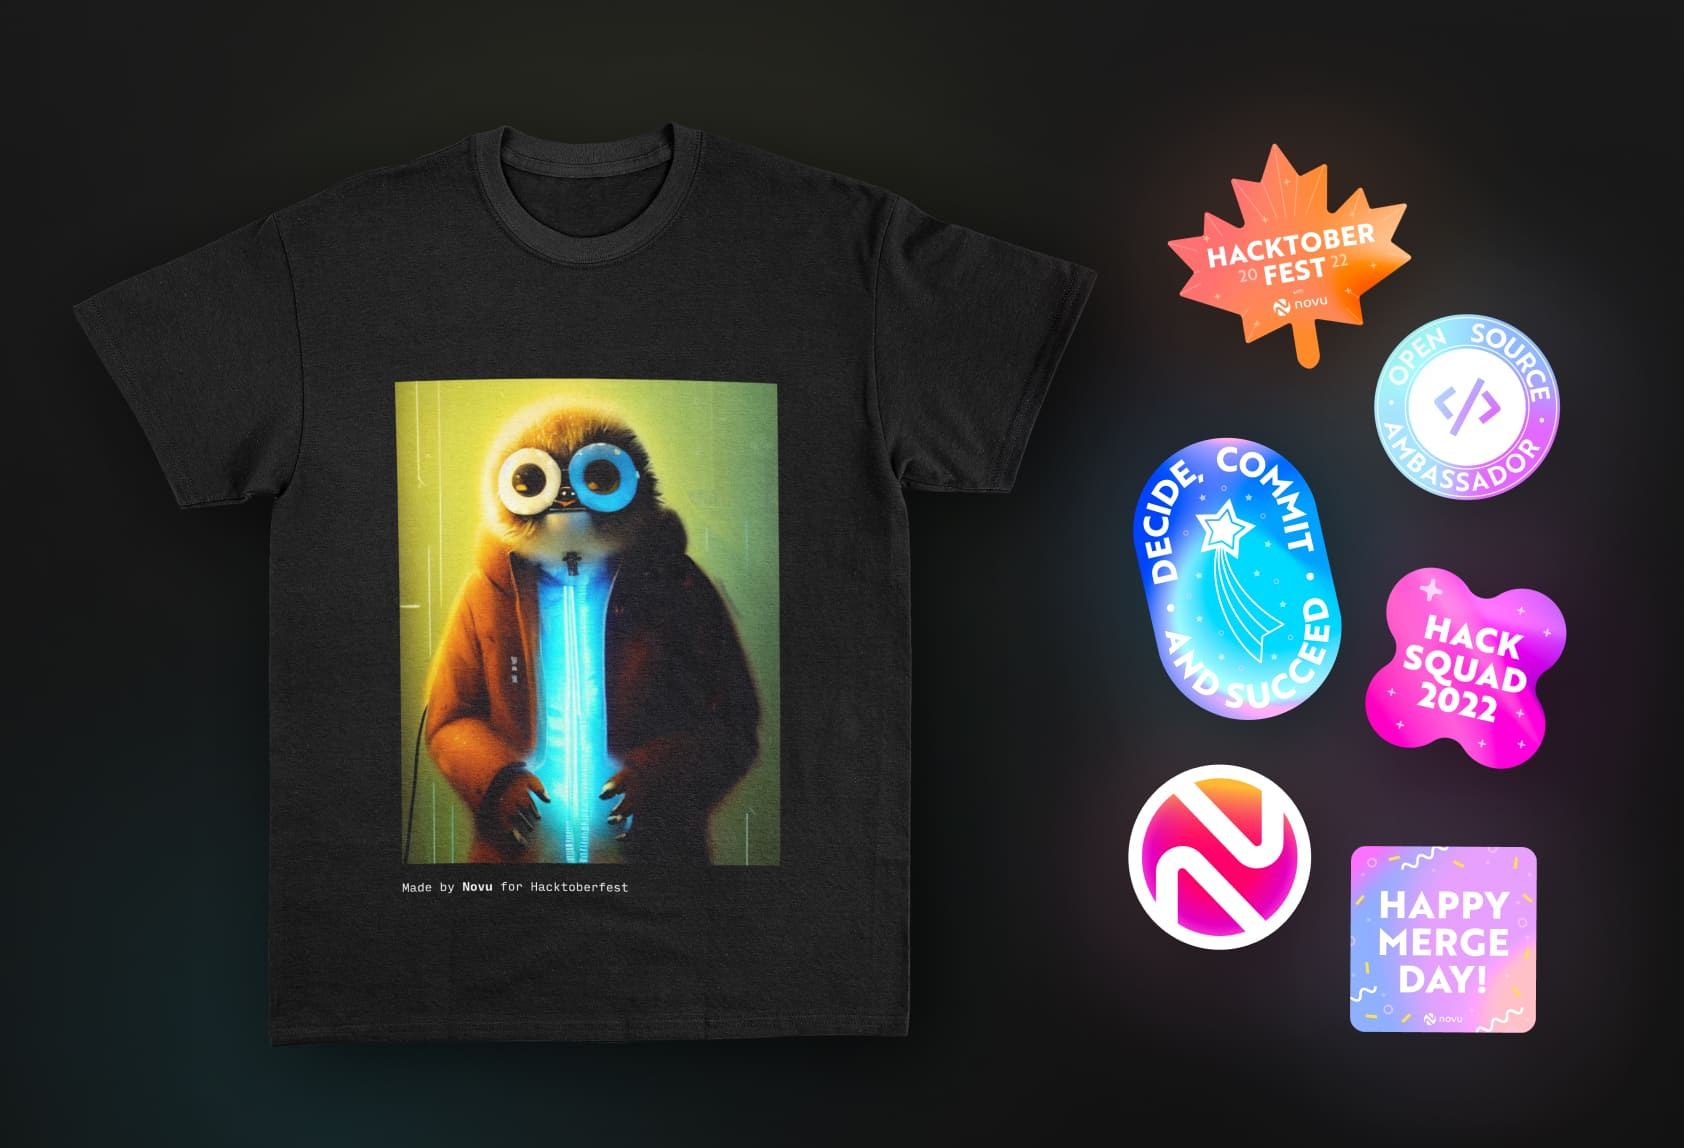
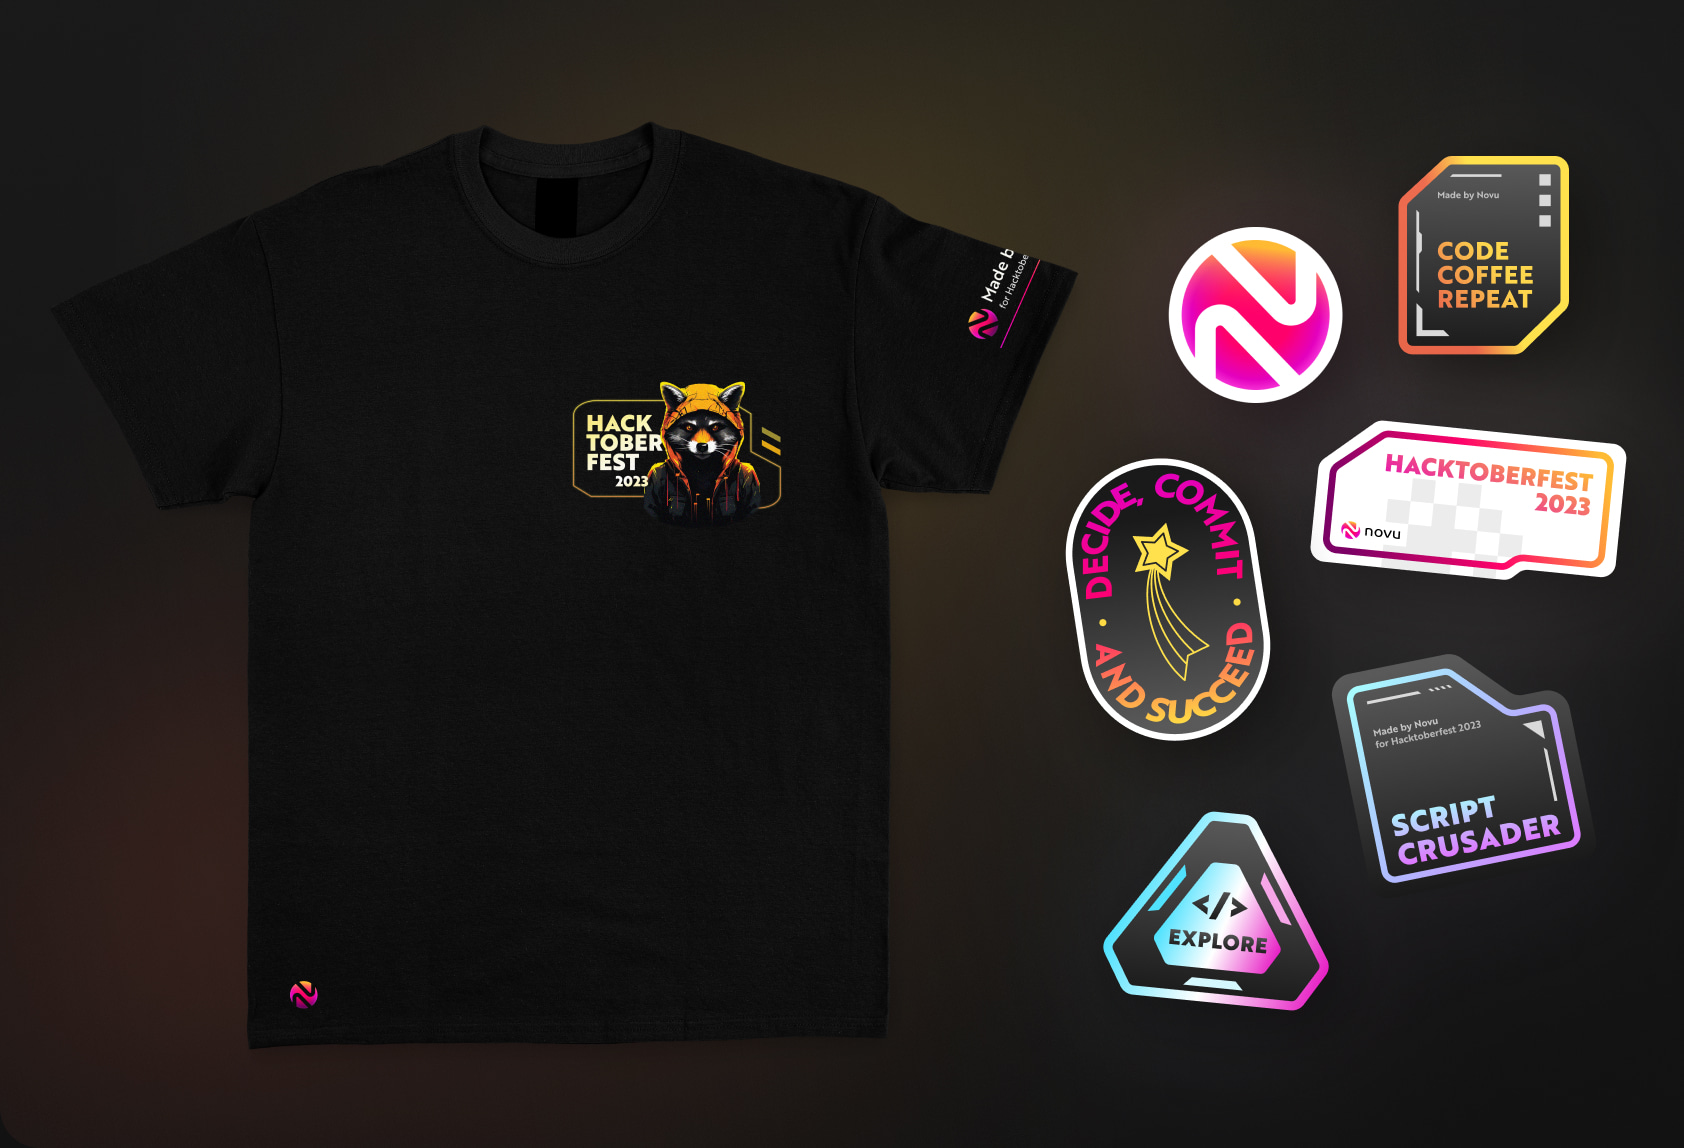
feat: update swag section styles

diff --git a/src/components/pages/hacktoberfest/swag/swag.jsx b/src/components/pages/hacktoberfest/swag/swag.jsx
@@ -4,13 +4,13 @@ import { graphql, useStaticQuery } from 'gatsby';
 import { GatsbyImage, getImage } from 'gatsby-plugin-image';
 import React, { useState } from 'react';
 
-import Button from 'components/shared/button';
+// import Button from 'components/shared/button';
 import Heading from 'components/shared/heading';
 
 const TITLE = 'Win a swag pack for just 3 merged PRs!';
 const SUBTITLE = 'Very special Novu T-shirts + Stickers pack';
-const BUTTON_TEXT = "CLAIM YOUR NOVU'S SWAG 🎉";
-const BUTTON_URL = 'https://hacksquad.dev/novu';
+// const BUTTON_TEXT = "CLAIM YOUR NOVU'S SWAG 🎉";
+// const BUTTON_URL = 'https://hacksquad.dev/novu';
 
 const swagAnimationProps = {
   initial: {
@@ -51,17 +51,23 @@ const Swag = () => {
       ) {
         nodes {
           childImageSharp {
-            gatsbyImageData(width: 842, quality: 95)
+            gatsbyImageData(width: 842, quality: 99)
           }
         }
       }
     }
   `);
   const handleClickButton = (index) => {
+    console.log(index);
     setActiveItem(index);
   };
+
+  const thumbnailsNormal = thumbnails.slice(0, 6);
+  const thumbnailsPremium = thumbnails.slice(6, 12);
+
+  console.log(activeItem);
   return (
-    <section className="swag safe-paddings mt-32 lg:mt-24 md:mt-20 sm:mt-16">
+    <section className="swag safe-paddings mt-32 pb-20 lg:mt-24 md:mt-20 sm:mt-16 sm:pb-16">
       <div className="container-lg max-w-[1220px]">
         <Heading
           className="text-center leading-tight md:text-5xl sm:text-4xl"
@@ -101,7 +107,7 @@ const Swag = () => {
               {SUBTITLE}
             </Heading>
             <div className="mt-11 grid grid-cols-3 gap-10 lg:mt-8 md:mt-5 md:gap-4 sm:flex sm:flex-wrap sm:justify-center sm:gap-3">
-              {thumbnails.map(({ childImageSharp }, index) => (
+              {thumbnailsNormal.map(({ childImageSharp }, index) => (
                 <button
                   key={`${index}-button`}
                   type="button"
@@ -110,8 +116,10 @@ const Swag = () => {
                 >
                   <GatsbyImage
                     className={clsx(
-                      'rounded-[10px] transition-[box-shadow] duration-300 ease-in-out md:rounded-lg',
-                      index === activeItem ? 'shadow-[0_0_0_2px_#FFE14D]' : 'shadow-transparent'
+                      'relative rounded-[10px] before:absolute before:left-0 before:top-0 before:z-10 before:h-full before:w-full before:rounded-[10px] before:border-2 before:border-transparent before:transition-colors before:duration-300 before:ease-in-out md:rounded-lg',
+                      {
+                        'before:!border-purple': index === activeItem,
+                      }
                     )}
                     imgClassName="rounded-[10px] md:rounded-lg"
                     image={getImage(childImageSharp)}
@@ -121,14 +129,50 @@ const Swag = () => {
                 </button>
               ))}
             </div>
-            <Button
+            <div className="mt-8">
+              <div className="flex items-center">
+                <div className="block h-0.5 flex-1 bg-yellow" />
+                <div className="text-highlighting-yellow-gradient">
+                  <span className="px-2.5 text-lg font-medium uppercase">premium</span>
+                </div>
+                <div className="block h-0.5 flex-1 bg-yellow" />
+              </div>
+              <div className="mt-4 grid grid-cols-3 gap-10 md:gap-4 sm:flex sm:flex-wrap sm:justify-center sm:gap-3">
+                {thumbnailsPremium.map(({ childImageSharp }, index) => {
+                  const premiumIndex = index + thumbnailsNormal.length;
+
+                  return (
+                    <button
+                      key={`${index}-button`}
+                      type="button"
+                      aria-label={`Choose swag pack ${premiumIndex}`}
+                      onClick={() => handleClickButton(premiumIndex)}
+                    >
+                      <GatsbyImage
+                        className={clsx(
+                          'relative rounded-[10px] shadow-[0px_0px_30px_rgba(255,226,125,0.50),0px_0px_10px_rgba(255,226,125,0.40),0px_0px_3px_rgba(255,226,125,0.60)] before:absolute before:left-0 before:top-0 before:z-10 before:h-full before:w-full before:rounded-[10px] before:border-2 before:border-transparent before:transition-colors before:duration-300 before:ease-in-out md:rounded-lg',
+                          {
+                            'before:!border-purple': premiumIndex === activeItem,
+                          }
+                        )}
+                        imgClassName="rounded-[10px] md:rounded-lg"
+                        image={getImage(childImageSharp)}
+                        alt={`Swag pack ${premiumIndex}`}
+                        loading="lazy"
+                      />
+                    </button>
+                  );
+                })}
+              </div>
+            </div>
+            {/* <Button
               className="mt-auto md:h-10 sm:mt-6"
               theme="white-filled"
               size="sm"
               to={BUTTON_URL}
             >
               {BUTTON_TEXT}
-            </Button>
+            </Button> */}
           </div>
         </div>
       </div>

diff --git a/src/pages/hacktoberfest.jsx b/src/pages/hacktoberfest.jsx
@@ -6,7 +6,7 @@ import Contribute from 'components/pages/hacktoberfest/contribute';
 import GlobalEvents from 'components/pages/hacktoberfest/global-events';
 import Hero from 'components/pages/hacktoberfest/hero';
 import Issues from 'components/pages/hacktoberfest/issues';
-// import Swag from 'components/pages/hacktoberfest/swag';
+import Swag from 'components/pages/hacktoberfest/swag';
 import GetStarted from 'components/shared/get-started';
 import Layout from 'components/shared/layout';
 import SEO from 'components/shared/seo';
@@ -30,8 +30,7 @@ const HacktoberfestPage = () => (
     <Hero />
     <Contribute />
     <Issues className="mt-32 bg-gray-2 py-20 md:mt-20 sm:mt-16 sm:py-16" />
-    {/* TODO: Bring this section back once the design is ready and updated */}
-    {/* <Swag /> */}
+    <Swag />
     {/* <Events /> */}
     <CommunityHeroes />
     <GlobalEvents />

diff --git a/src/styles/text-highlighting.css b/src/styles/text-highlighting.css
@@ -21,6 +21,14 @@
     }
   }
 
+  .text-highlighting-yellow-gradient {
+    span {
+      background: linear-gradient(180deg, #ffe27d 45.98%, rgba(255, 226, 125, 0.6) 100%);
+      -webkit-background-clip: text;
+      -webkit-text-fill-color: transparent;
+    }
+  }
+
   .text-highlighting-blue-gradient {
     span {
       background: linear-gradient(91.72deg, #ffe27d 2.21%, #64e3ff 47.11%, #9092ff 94.91%);
